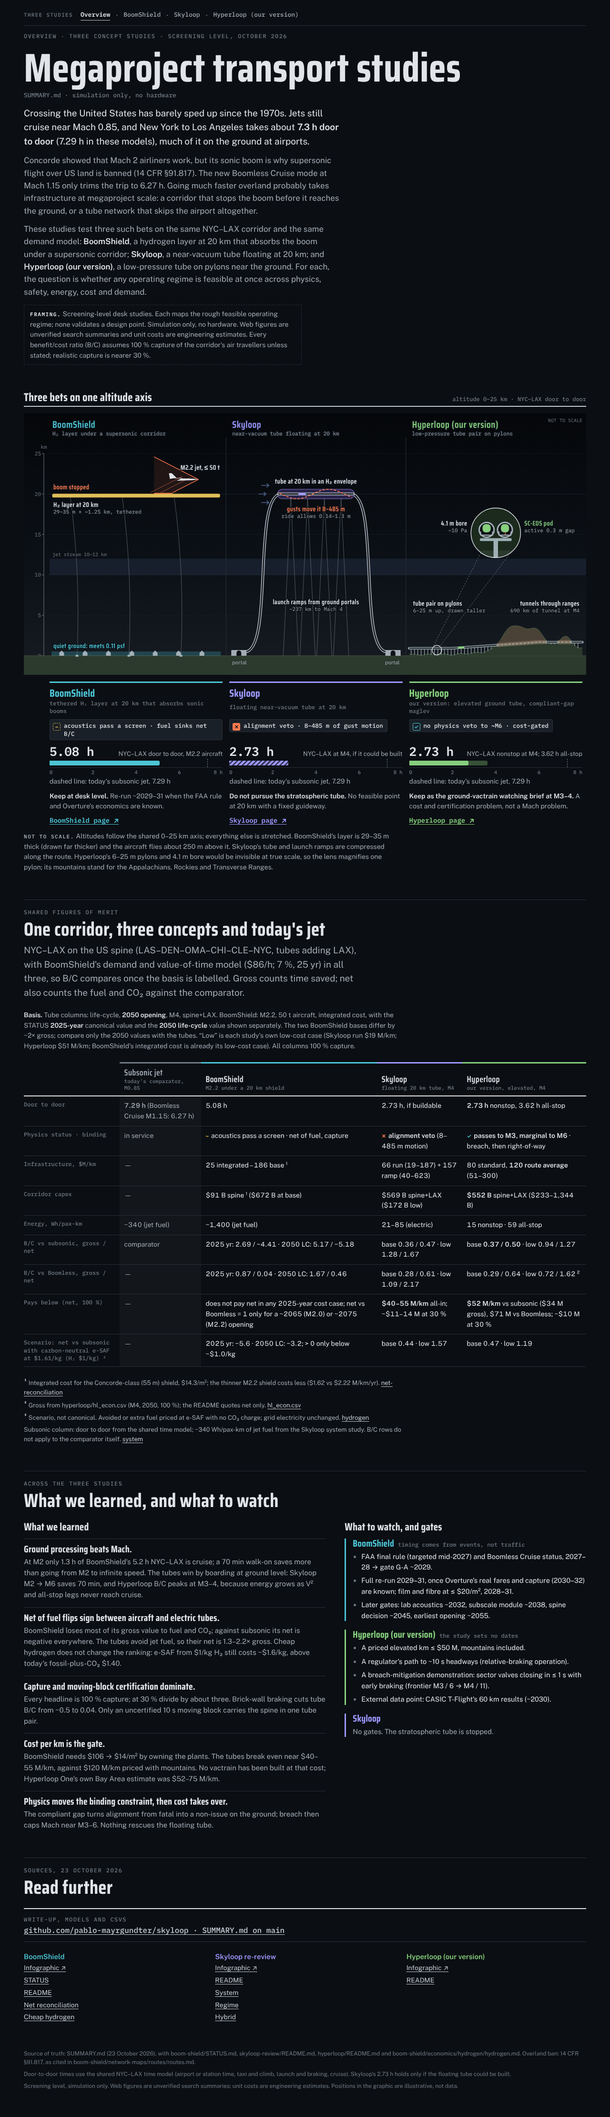
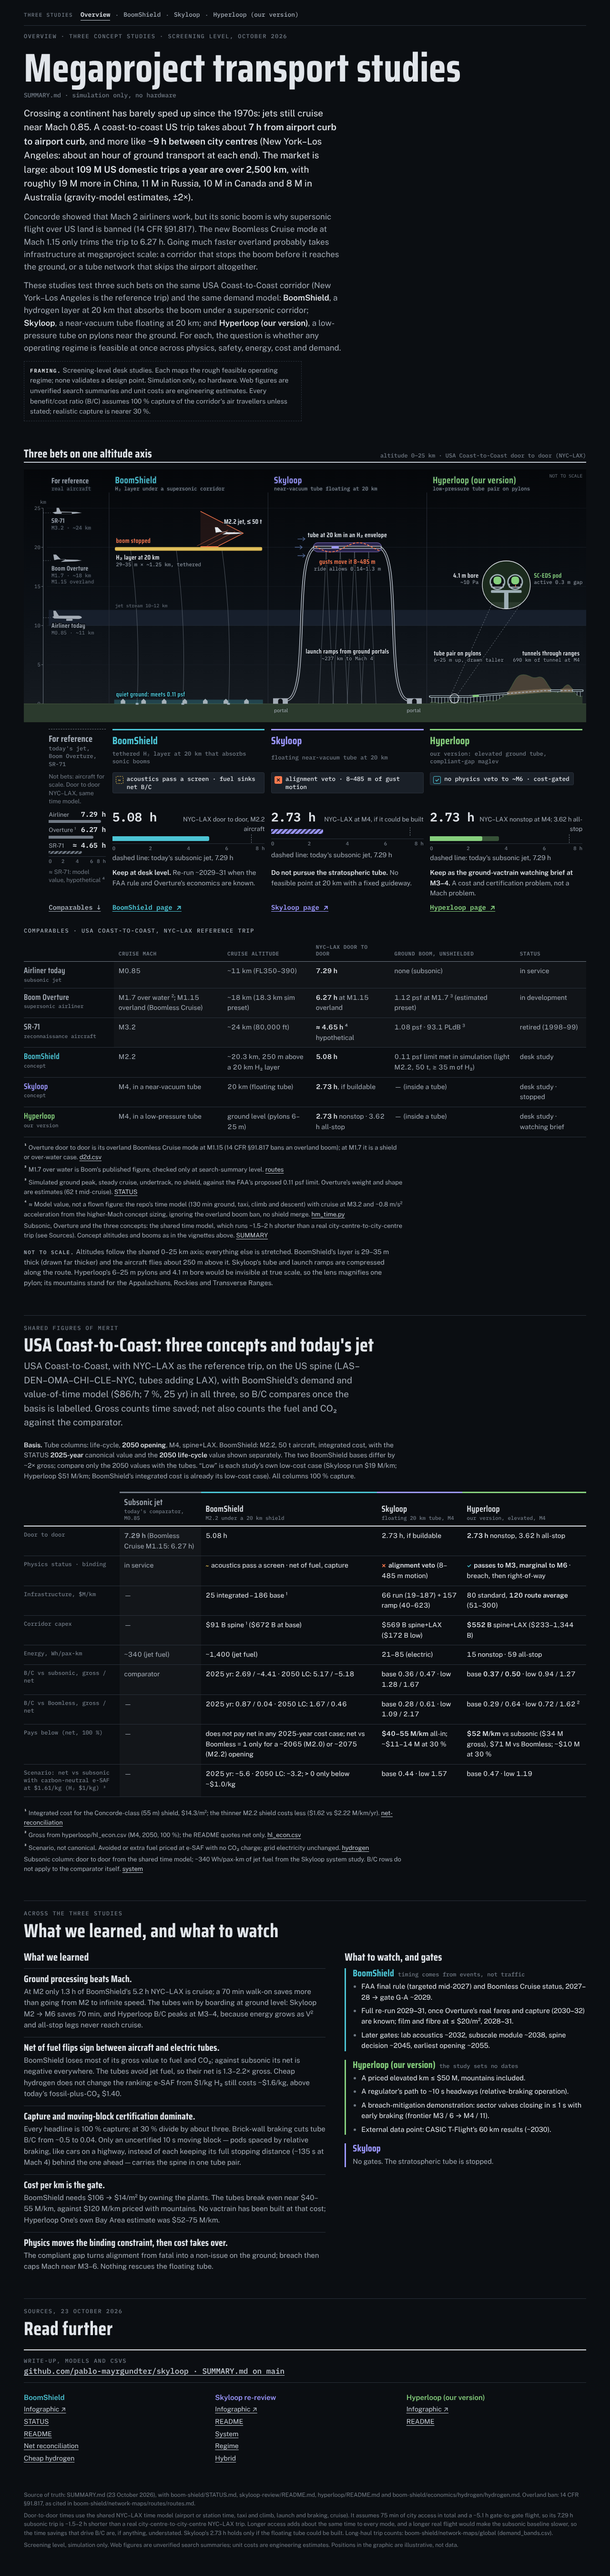
Overview: reference aircraft column, comparables table, moving-block gloss
Claude-Session: https://claude.ai/code/session_01RbnYLXCK3HPi4Bm69kAxad

Changed region(s): [[0.0312, 0.0, 0.9688, 0.9948], [0.5625, 0.715, 0.9375, 0.8394], [0.5938, 0.0, 0.75, 0.0622]]

diff --git a/overview/index.html b/overview/index.html
@@ -87,7 +87,29 @@ svg{display:block;width:100%;height:auto;max-width:100%}
 .cards{display:grid;grid-template-columns:minmax(0,1fr);gap:22px}
 .cards.aligned{grid-template-rows:repeat(5,auto);row-gap:0}
 .cards.aligned>.card{grid-row:1 / span 5;grid-template-rows:subgrid;row-gap:9px}
-.cards.aligned>:nth-child(1){grid-column:2} .cards.aligned>:nth-child(2){grid-column:4} .cards.aligned>:nth-child(3){grid-column:6}
+.cards.aligned>:nth-child(1){grid-column:2} .cards.aligned>:nth-child(2){grid-column:4} .cards.aligned>:nth-child(3){grid-column:6} .cards.aligned>:nth-child(4){grid-column:8}
+/* reference column: neutral, quieter than the three concepts */
+.card.ref{border-top-width:1px;border-top-style:dashed}
+.card.ref h3{color:var(--ink-2);font-size:19px}
+.card.ref .note{font-size:12.5px;color:var(--ink-3);line-height:1.4}
+.rrows{display:grid;gap:5px}
+.rrow{display:grid;gap:2px}
+.rrow .row{display:flex;justify-content:space-between;align-items:baseline;gap:6px}
+.rrow .row span{font-size:12.5px;color:var(--ink-2);white-space:nowrap}
+.rrow .row b{font:600 14.5px/1.1 var(--f-mono);font-variant-numeric:tabular-nums;white-space:nowrap}
+.rrow .tbar{height:6px}
+.card.ref .tbar .b{background:var(--ink-3)}
+.card.ref .tbar .b.hatch{background:repeating-linear-gradient(135deg,var(--ink-3) 0 3px,color-mix(in srgb,var(--ink-3) 30%,transparent) 3px 6px)}
+/* comparables table under the hero */
+.comps{display:grid;gap:10px;margin-top:18px}
+.comps .eyebrow{color:var(--ink-2)}
+table.cmp.comp tbody th{font:600 17px/1.15 var(--f-display);letter-spacing:.02em;color:var(--c);width:16%}
+table.cmp.comp tbody th small{display:block;font:500 11px/1.35 var(--f-mono);color:var(--ink-3);letter-spacing:0;margin-top:2px}
+table.cmp.comp thead th{font:600 11px/1.3 var(--f-mono);letter-spacing:.06em;text-transform:uppercase;color:var(--ink-3);border-top:0;border-bottom:1.5px solid var(--ink-3)}
+table.cmp.comp td{color:var(--ink-2)}
+table.cmp.comp td b{color:var(--ink)}
+table.cmp.comp tr.grp th,table.cmp.comp tr.grp td{border-top:1.5px solid var(--ink-3)}
+table.cmp.comp tr.isref td{background:color-mix(in srgb,var(--ink) 3%,transparent)}
 .card{display:grid;gap:9px;align-content:start;min-width:0;border-top:3px solid var(--c);padding-top:10px}
 .card .nm{display:grid;gap:2px}
 .card h3{color:var(--c)}
@@ -99,7 +121,7 @@ svg{display:block;width:100%;height:auto;max-width:100%}
 .schip i.fail{color:var(--surface);background:var(--boom)}
 .d2d{display:grid;gap:4px}
 .d2d .row{display:flex;justify-content:space-between;align-items:baseline;gap:10px}
-.d2d b{font:600 26px/1.1 var(--f-mono);font-variant-numeric:tabular-nums}
+.d2d b{font:600 26px/1.1 var(--f-mono);font-variant-numeric:tabular-nums;white-space:nowrap}
 .d2d .row span{font-size:13px;color:var(--ink-2);text-align:right}
 .tbar{position:relative;height:10px}
 .tbar .ref{position:absolute;top:-4px;bottom:-4px;border-left:1.5px dashed var(--ink-3)}
@@ -184,6 +206,11 @@ svg .td{font-family:var(--f-display);font-weight:600;letter-spacing:.03em}
   table.cmp td{border:0;padding:2px 0 2px 104px;position:relative}
   table.cmp td::before{content:attr(data-l);position:absolute;left:0;top:3px;width:96px;font:600 11px/1.3 var(--f-mono);color:var(--c,var(--ink-3))}
   table.cmp td.base{background:none}
+  table.cmp.comp tr.grp th,table.cmp.comp tr.grp td{border-top:0}
+  table.cmp.comp tr.grp{border-top:1.5px solid var(--ink-3)}
+  table.cmp.comp tr.isref td{background:none}
+  table.cmp.comp tbody th{font-size:19px;width:auto}
+  table.cmp.comp tbody th small{display:inline;margin-left:8px}
 }
 </style>
 <link rel="preconnect" href="https://fonts.googleapis.com">
@@ -207,6 +234,11 @@ svg .td{font-family:var(--f-display);font-weight:600;letter-spacing:.03em}
   <div class="hero-head"><h3 id="hero-h">Three bets on one altitude axis</h3><span class="tag" data-k="hero.tag"></span></div>
   <div id="hero"></div>
   <div class="cards" id="cards"></div>
+  <div class="comps" id="comps" aria-labelledby="comps-h">
+    <div class="eyebrow" id="comps-h" data-k="comps.title"></div>
+    <table class="cmp comp" id="comp"></table>
+    <div class="notes" id="comp-notes"></div>
+  </div>
   <p class="scale-note"><span class="stamp">NOT TO SCALE.</span> <span data-k="hero.scaleNote"></span></p>
 </section>
 
@@ -283,8 +315,36 @@ const DATA = {
       ramp:"launch ramps from ground portals", rampSub:"~237 km to Mach 4", portal:"portal"},
     hl:{title:"Hyperloop (our version)", sub:"low-pressure tube pair on pylons",
       pylons:"tube pair on pylons", pylonsSub:"6–25 m up, drawn taller", tunnel:"tunnels through ranges", tunnelSub:"690 km of tunnel at M4",
-      bore:"4.1 m bore", boreSub:"~10 Pa", pod:"SC-EDS pod", podSub:"active 0.3 m gap"}
+      bore:"4.1 m bore", boreSub:"~10 Pa", pod:"SC-EDS pod", podSub:"active 0.3 m gap"},
+    // reference column: aircraft at cruise altitude. Altitudes: airliner FL350–390 (network-maps/routes/routes.md);
+    // Overture 18.3 km and SR-71 24.4 km are the boomsim presets (sim/run_psf_sweep.py, sim/boomsim/source.py).
+    ref:{title:"For reference", sub:"real aircraft",
+      ac:[{id:"sub", name:"Airliner today", alt_km:11, l1:"M0.85 · ~11 km"},
+          {id:"ov", name:"Boom Overture", alt_km:18.3, l1:"M1.7 · ~18 km", l2:"M1.15 overland"},
+          {id:"sr", name:"SR-71", alt_km:24.4, l1:"M3.2 · ~24 km"}],
+      card:{kind:"today's jet, Boom Overture, SR-71", note:"Not bets: aircraft for scale. Door to door NYC–LAX, same time model.",
+        rows:[{n:"Airliner", h:7.29}, {n:"Overture ¹", h:6.27}, {n:"SR-71", h:4.65, approx:true, hatch:true}],
+        go:"Comparables ↓"}}
   },
+  comps:{
+    title:"Comparables · USA Coast-to-Coast, NYC–LAX reference trip",
+    heads:["Cruise Mach","Cruise altitude","NYC–LAX door to door","Ground boom, unshielded","Status"],
+    short:["Mach","Altitude","Door to door","Ground boom","Status"],
+    rows:[
+      {c:"ink-2", ref:true, name:"Airliner today", kind:"subsonic jet", cells:["M0.85","~11 km (FL350–390)","**7.29 h**","none (subsonic)","in service"]},
+      {c:"ink-2", ref:true, name:"Boom Overture", kind:"supersonic airliner", cells:["M1.7 over water ²; M1.15 overland (Boomless Cruise)","~18 km (18.3 km sim preset)","**6.27 h** at M1.15 overland","1.12 psf at M1.7 ³ (estimated preset)","in development"]},
+      {c:"ink-2", ref:true, name:"SR-71", kind:"reconnaissance aircraft", cells:["M3.2","~24 km (80,000 ft)","**≈ 4.65 h** ⁴ hypothetical","1.08 psf · 93.1 PLdB ³","retired (1998–99)"]},
+      {c:"bs", grp:true, name:"BoomShield", kind:"concept", cells:["M2.2","~20.3 km, 250 m above a 20 km H₂ layer","**5.08 h**","0.11 psf limit met in simulation (light M2.2, 50 t, ≥ 35 m of H₂)","desk study"]},
+      {c:"sk", name:"Skyloop", kind:"concept", cells:["M4, in a near-vacuum tube","20 km (floating tube)","**2.73 h**, if buildable","— (inside a tube)","desk study · stopped"]},
+      {c:"hl", name:"Hyperloop", kind:"our version", cells:["M4, in a low-pressure tube","ground level (pylons 6–25 m)","**2.73 h** nonstop · 3.62 h all-stop","— (inside a tube)","desk study · watching brief"]}
+    ],
+    notes:[
+      ["¹","Overture door to door is its overland Boomless Cruise mode at M1.15 (14 CFR §91.817 bans an overland boom); at M1.7 it is a shield or over-water case.","d2d.csv","skyloop-review/system/d2d.csv"],
+      ["²","M1.7 over water is Boom's published figure, checked only at search-summary level.","routes","boom-shield/network-maps/routes/routes.md"],
+      ["³","Simulated ground peak, steady cruise, undertrack, no shield, against the FAA's proposed 0.11 psf limit. Overture's weight and shape are estimates (62 t mid-cruise).","STATUS","boom-shield/STATUS.md"],
+      ["⁴","≈ Model value, not a flown figure: the repo's time model (130 min ground, taxi, climb and descent) with cruise at M3.2 and ~0.8 m/s² acceleration from the higher-Mach concept sizing, ignoring the overland boom ban, no shield merge.","hm_time.py","boom-shield/network-maps/highmach/hm_time.py"],
+      ["","Subsonic, Overture and the three concepts: the shared time model, which runs ~1.5–2 h shorter than a real city-centre-to-city-centre trip (see Sources). Concept altitudes and booms as in the vignettes above.","SUMMARY","SUMMARY.md"]
+    ]},
   concepts:[
     {id:"bs", name:"BoomShield", kind:"tethered H₂ layer at 20 km that absorbs sonic booms",
       st:"marg", status:"acoustics pass a screen · fuel sinks net B/C",
@@ -331,7 +391,7 @@ const DATA = {
   lessons:[
     ["Ground processing beats Mach.","At M2 only 1.3 h of BoomShield's 5.2 h NYC–LAX is cruise; a 70 min walk-on saves more than going from M2 to infinite speed. The tubes win by boarding at ground level: Skyloop M2 → M6 saves 70 min, and Hyperloop B/C peaks at M3–4, because energy grows as V² and all-stop legs never reach cruise."],
     ["Net of fuel flips sign between aircraft and electric tubes.","BoomShield loses most of its gross value to fuel and CO₂; against subsonic its net is negative everywhere. The tubes avoid jet fuel, so their net is 1.3–2.2× gross. Cheap hydrogen does not change the ranking: e-SAF from $1/kg H₂ still costs ~$1.6/kg, above today's fossil-plus-CO₂ $1.40."],
-    ["Capture and moving-block certification dominate.","Every headline is 100 % capture; at 30 % divide by about three. Brick-wall braking cuts tube B/C from ~0.5 to 0.04. Only an uncertified 10 s moving block carries the spine in one tube pair."],
+    ["Capture and moving-block certification dominate.","Every headline is 100 % capture; at 30 % divide by about three. Brick-wall braking cuts tube B/C from ~0.5 to 0.04. Only an uncertified 10 s moving block — pods spaced by relative braking, like cars on a highway, instead of each keeping its full stopping distance (~135 s at Mach 4) behind the one ahead — carries the spine in one tube pair."],
     ["Cost per km is the gate.","BoomShield needs $106 → $14/m² by owning the plants. The tubes break even near $40–55 M/km, against $120 M/km priced with mountains. No vactrain has been built at that cost; Hyperloop One's own Bay Area estimate was $52–75 M/km."],
     ["Physics moves the binding constraint, then cost takes over.","The compliant gap turns alignment from fatal into a non-issue on the ground; breach then caps Mach near M3–6. Nothing rescues the floating tube."]
   ],
@@ -476,27 +536,50 @@ function vHyperloop(p){
   s+=T(x1-6,ty,Hh.tunnel,'f-ink td halo','end',fs)+T(x1-6,ty+fs,Hh.tunnelSub,'f-ink2 tm halo','end',sub);
   return s;
 }
+/* Reference column: three real aircraft at cruise altitude, drawn in the BoomShield silhouette style but quieter (ink-2/ink-3). */
+const REF_SIL={
+  sub:'M0 0 Q-1 -3.6 -7 -4.2 L-50 -4.2 L-57 -15 L-62 -15 L-61 -3.6 L-64 -1.4 L-60 1.8 L-8 2.8 Q-2 2.4 0 0 Z M-34 2.6 h12 a2 2 0 0 1 0 4 h-12 z',
+  ov:'M0 0 L-10 -1.6 L-52 -2.6 L-60 -1 L-62 -13 L-56 -13 L-46 -3 L-34 -3 L-46 2.6 L-14 1.6 Z',
+  sr:'M0 0 L-12 -1.8 L-46 -2.8 L-50 -11 L-55 -11 L-55 -2.8 L-64 -1 L-58 2.2 L-20 2.2 Z M-44 -1 h22 v3 h-22 z'
+};
+function vRef(p){
+  const {x0,x1,Y,fs,narrow}=p, w=x1-x0, R=DATA.hero.ref, sub=fs-3;
+  let s='';
+  R.ac.forEach((a,i)=>{
+    // nose position: one column on desktop, spread across the strip on narrow screens
+    const tailX = narrow ? x0+8+i*w/3 : x0+8, nx=tailX+64, y=Y(a.alt_km);
+    s+=`<line x1="${r1(x0-12)}" x2="${r1(tailX-4)}" y1="${r1(y)}" y2="${r1(y)}" class="s-ink3" stroke-width="1" stroke-dasharray="2 3"/>`;
+    s+=`<path transform="translate(${r1(nx)} ${r1(y)})" d="${REF_SIL[a.id]}" class="f-ink2" fill-rule="evenodd"/>`;
+    const ly=y+fs+8;
+    s+=T(tailX-2,ly,a.name,'f-ink2 td halo','start',fs);
+    s+=T(tailX-2,ly+sub+3,a.l1,'f-ink3 tm halo','start',sub);
+    if(a.l2) s+=T(tailX-2,ly+2*(sub+3),a.l2,'f-ink3 tm halo','start',sub);
+  });
+  return s;
+}
 function hero(){
   const host=$('#hero'), hw=host.clientWidth||1100, narrow=hw<820, H0=DATA.hero;
-  const zMax=H0.zMax, draw=[vBoomShield,vSkyloop,vHyperloop], keys=['bs','sk','hl'];
+  const zMax=H0.zMax, draw=[vRef,vBoomShield,vSkyloop,vHyperloop], keys=['ref','bs','sk','hl'];
   let W,H,panels=[],fs;
   if(!narrow){
-    W=1180; H=548; fs=14;
-    const ax=54, gap=14, right=8, pw=(W-ax-right-2*gap)/3, top=84, gY=H-40;
-    panels=[0,1,2].map(i=>({x0:ax+i*(pw+gap), x1:ax+i*(pw+gap)+pw, top, gY, ty:30}));
+    W=1220; H=548; fs=14;
+    const ax=54, gap=14, right=8, rw=124, pw=(W-ax-right-rw-3*gap)/3, top=84, gY=H-40;
+    const xs=[ax, ax+rw+gap, ax+rw+gap+(pw+gap), ax+rw+gap+2*(pw+gap)];
+    panels=xs.map((x,i)=>({x0:x, x1:x+(i?pw:rw), top, gY, ty:30}));
     const pc=v=>(v/W*100).toFixed(3)+'%';
     const cards=$('#cards'); cards.classList.add('aligned');
-    cards.style.gridTemplateColumns=[pc(ax),pc(pw),pc(gap),pc(pw),pc(gap),pc(pw),pc(right)].join(' ');
+    cards.style.gridTemplateColumns=[pc(ax),pc(rw),pc(gap),pc(pw),pc(gap),pc(pw),pc(gap),pc(pw),pc(right)].join(' ');
     cards.style.columnGap='0';
   } else {
     W=Math.max(520,Math.round(hw)); fs=W>600?15:17;
-    const PH=narrow&&W<=600?330:300, ax=W>600?50:46, gapY=18;
-    H=3*PH+2*gapY;
-    panels=[0,1,2].map(i=>{const py=i*(PH+gapY); return {x0:ax, x1:W-6, top:py+(fs+10)*2+12, gY:py+PH-34, ty:py+fs+12, py, PH};});
+    const PH=narrow&&W<=600?330:300, PR=Math.round(PH*0.8), ax=W>600?50:46, gapY=18;
+    const hs=[PR,PH,PH,PH]; H=PR+3*PH+3*gapY;
+    let py=0;
+    panels=hs.map(h=>{const p={x0:ax, x1:W-6, top:py+(fs+10)*2+12, gY:py+h-34, ty:py+fs+12, py, PH:h}; py+=h+gapY; return p;});
     const cards=$('#cards'); cards.classList.remove('aligned'); cards.style.gridTemplateColumns=''; cards.style.columnGap='';
   }
   panels.forEach(p=>{p.kz=(p.gY-p.top)/zMax; p.Y=z=>p.gY-z*p.kz; p.fs=fs; p.narrow=narrow;});
-  let s=`<svg viewBox="0 0 ${W} ${H}" role="img" aria-label="Three cut-away vignettes on a shared altitude axis from 0 to 25 km. BoomShield: a supersonic jet just above a thin hydrogen layer at 20 km; the boom stops in the layer and the ground below is quiet. Skyloop: a tube floating at 20 km in a hydrogen envelope on tethers, reached by launch ramps from ground portals; gusts move it hundreds of metres. Hyperloop: a tube pair on pylons near the ground that tunnels through mountains, with a lens showing the two bores and pods.">`;
+  let s=`<svg viewBox="0 0 ${W} ${H}" role="img" aria-label="A reference column and three cut-away vignettes on a shared altitude axis from 0 to 25 km. For reference: today's airliner at Mach 0.85 near 11 km, Boom Overture at Mach 1.7 near 18 km, and the SR-71 at Mach 3.2 near 24 km. BoomShield: a supersonic jet just above a thin hydrogen layer at 20 km; the boom stops in the layer and the ground below is quiet. Skyloop: a tube floating at 20 km in a hydrogen envelope on tethers, reached by launch ramps from ground portals; gusts move it hundreds of metres. Hyperloop: a tube pair on pylons near the ground that tunnels through mountains, with a lens showing the two bores and pods.">`;
   s+=`<defs><linearGradient id="osky" x1="0" y1="0" x2="0" y2="1"><stop offset="0" class="st-skytop"/><stop offset=".6" class="st-skymid"/><stop offset="1" class="st-skylow"/></linearGradient></defs>`;
   const bands = narrow ? panels.map(p=>[p.py,p.PH]) : [[0,H]];
   bands.forEach(([y,h])=>{s+=`<rect x="0" y="${y}" width="${W}" height="${h}" fill="url(#osky)"/>`;});
@@ -516,17 +599,27 @@ function hero(){
     if(!narrow&&i>0) s+=`<line x1="${r1(p.x0-7)}" x2="${r1(p.x0-7)}" y1="${r1(p.top-34)}" y2="${r1(p.gY)}" class="s-rule" stroke-width="1"/>`;
     s+=draw[i](p);
     const V=H0[keys[i]];
-    s+=T(p.x0+(narrow?0:6),p.ty,V.title,`f-${keys[i]} td halo`,'start',fs+6,'font-weight="700"')+T(p.x0+(narrow?0:6),p.ty+fs+2,V.sub,'f-ink2 tm halo','start',fs-3);
+    const isRef=keys[i]==='ref';
+    s+=T(p.x0+(narrow?0:6),p.ty,V.title,isRef?'f-ink2 td halo':`f-${keys[i]} td halo`,'start',isRef?fs+2:fs+6,'font-weight="700"')+T(p.x0+(narrow?0:6),p.ty+fs+2,V.sub,isRef?'f-ink3 tm halo':'f-ink2 tm halo','start',fs-3);
   });
   s+=T(W-8,18,'NOT TO SCALE','f-ink3 tm','end',fs-4);
-  if(!narrow) s+=T(panels[0].x0+6,panels[0].Y(H0.jet_km[1])-6,H0.bs.jet,'f-ink3 tm halo','start',fs-4);
+  if(!narrow) s+=T(panels[1].x0+6,panels[1].Y(H0.jet_km[1])-6,H0.bs.jet,'f-ink3 tm halo','start',fs-4);
   host.innerHTML=s+'</svg>';
 }
 
 /* ===== CARDS ===== */
 (function(){
-  const H0=DATA.hero, pct=v=>(v/H0.axisMax_h*100).toFixed(2)+'%';
-  $('#cards').innerHTML=DATA.concepts.map(c=>`<article class="card" style="--c:var(--${c.id})">
+  const H0=DATA.hero, pct=v=>(v/H0.axisMax_h*100).toFixed(2)+'%', RC=H0.ref.card;
+  const axis=`<div class="tbar-ax">${H0.axisTicks.map((t,i)=>`<span${i===H0.axisTicks.length-1?' class="end"':''} style="left:${pct(t)}">${t}${i===H0.axisTicks.length-1?' h':''}</span>`).join('')}</div>`;
+  const refCard=`<article class="card ref" style="--c:var(--ink-3)">
+    <div class="nm"><h3>${esc(H0.ref.title)}</h3><span class="kind">${esc(RC.kind)}</span></div>
+    <span class="note">${esc(RC.note)}</span>
+    <div class="rrows">${RC.rows.map(r=>`<div class="rrow"><div class="row"><span>${esc(r.n)}</span><b>${r.approx?'≈ ':''}${r.h.toFixed(2)} h</b></div>
+      <div class="tbar" title="${esc(r.n)}: ${r.approx?'≈ ':''}${r.h} h door to door"><i class="b${r.hatch?' hatch':''}" style="width:${pct(r.h)}"></i></div></div>`).join('')}${axis}</div>
+    <span class="note">≈ SR-71: model value, hypothetical ⁴</span>
+    <a class="go" href="#comps" style="--c:var(--ink-2)">${esc(RC.go)}</a>
+  </article>`;
+  $('#cards').innerHTML=refCard+DATA.concepts.map(c=>`<article class="card" style="--c:var(--${c.id})">
     <div class="nm"><h3>${esc(c.name)}</h3><span class="kind">${esc(c.kind)}</span></div>
     <span class="schip"><i class="${c.st}" aria-hidden="true">${ICON[c.st]}</i>${esc(c.status)}</span>
     <div class="d2d"><div class="row"><b>${c.d2d.toFixed(2)} h</b><span>${esc(c.d2dNote)}</span></div>
@@ -537,6 +630,15 @@ function hero(){
     <p class="vd">${md(c.verdict)}</p>
     <a class="go" href="${esc(c.url)}" target="_blank" rel="noopener">${esc(c.go)}</a>
   </article>`).join('');
+})();
+/* ===== COMPARABLES (reference aircraft + concepts) ===== */
+(function(){
+  const C=DATA.comps;
+  let h=`<thead><tr><th></th>${C.heads.map(t=>`<th>${esc(t)}</th>`).join('')}</tr></thead><tbody>`;
+  C.rows.forEach(r=>{const cls=[r.grp?'grp':'',r.ref?'isref':''].filter(Boolean).join(' ');
+    h+=`<tr${cls?` class="${cls}"`:''} style="--c:var(--${r.c})"><th scope="row">${esc(r.name)}<small>${esc(r.kind)}</small></th>`+r.cells.map((c,i)=>`<td data-l="${esc(C.short[i])}">${md(c)}</td>`).join('')+'</tr>';});
+  $('#comp').innerHTML=h+'</tbody>';
+  $('#comp-notes').innerHTML=C.notes.map(([n,t,lab,path])=>`<span>${n?`<sup>${n}</sup> `:''}${esc(t)} <a href="${GH+path}" target="_blank" rel="noopener">${esc(lab)}</a></span>`).join('');
 })();
 hero();
 let lastW=window.innerWidth; window.addEventListener('resize',()=>{if(Math.abs(window.innerWidth-lastW)<4) return; lastW=window.innerWidth; hero();});
